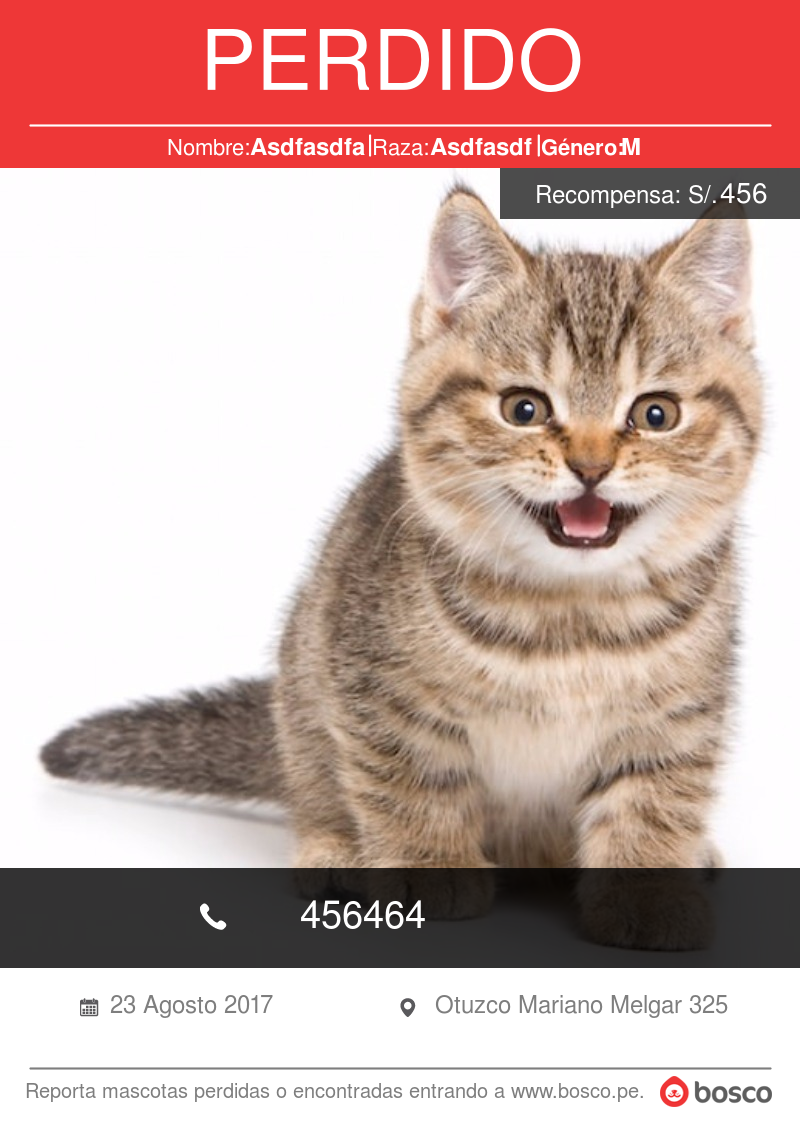
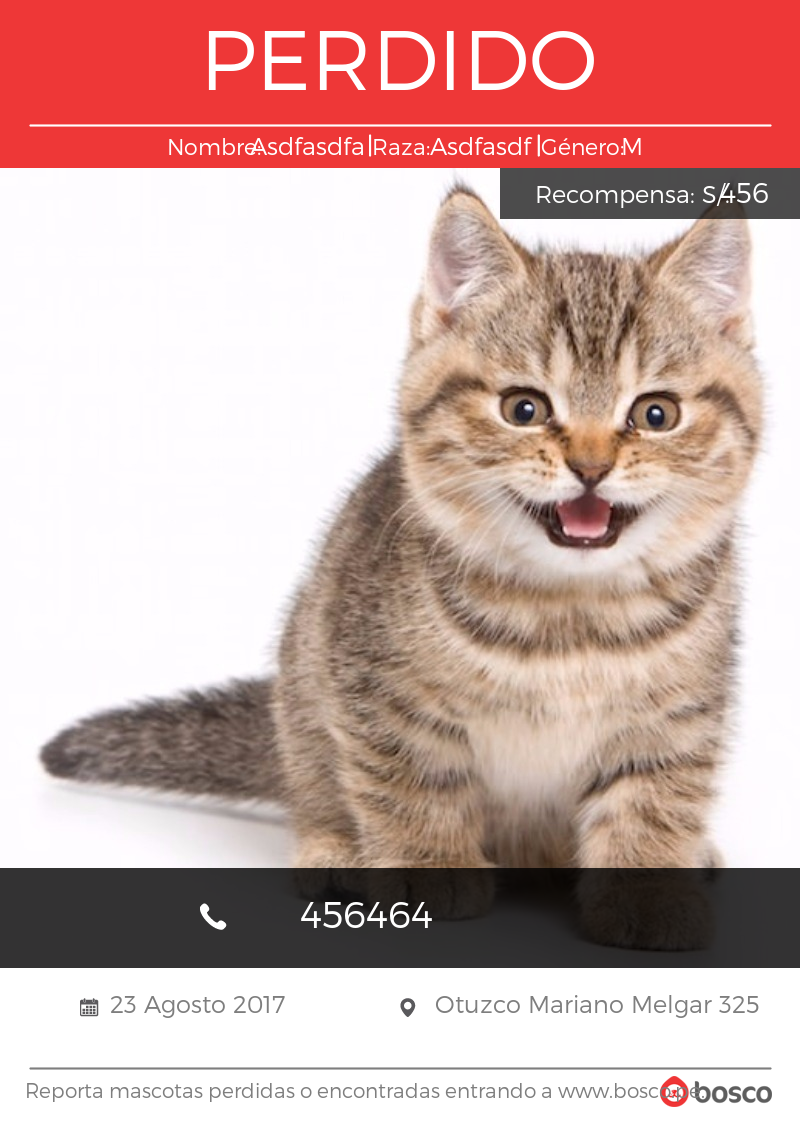
hotfix tipografia

diff --git a/app/Http/Controllers/ReportsController.php b/app/Http/Controllers/ReportsController.php
@@ -158,6 +158,7 @@ class ReportsController extends Controller {
             $headerLienzo->newImage(800, 168, new ImagickPixel('rgb(238, 55, 55)'));
             $headerLienzo->setImageFormat("jpg");
             $textoPerdido = new \ImagickDraw();
+            $textoPerdido->setFont("fonts/montserrat/montserrat-light.ttf");
             $textoPerdido->setFontSize(84);
             $textoPerdido->setStrokeWidth(3);
             $textoPerdido->setFillColor(new ImagickPixel('white'));
@@ -172,19 +173,21 @@ class ReportsController extends Controller {
             $factorCorreccionTextoIzquierda = 362; 
             $largoTextoIzquierda = strlen($name);
             $textoNombre = new \ImagickDraw();
-            $textoNombre->setFontSize(22);
+            $textoNombre->setFontSize(20);
             $textoNombre->setStrokeWidth(2);
             $textoNombre->setFillColor(new ImagickPixel('white'));        
             //15
+            $textoNombre->setFont("fonts/montserrat/montserrat-light.ttf");
             $textoNombre->annotation($factorCorreccionTituloIzquierda-($largoTextoIzquierda*$metricaCaracter) - $valorCorreccion, 155, 'Nombre:');                                                                   
             if ($status == "lost")
             $headerLienzo->drawImage($textoNombre);
             $valorNombre = new \ImagickDraw();
             $valorNombre->setFontWeight(551);
-            $valorNombre->setFontSize(24);
+            $valorNombre->setFontSize(22);
             $valorNombre->setStrokeWidth(2);
             $valorNombre->setFillColor(new ImagickPixel('white'));
             //98
+            $valorNombre->setFont("fonts/montserrat/montserrat-light.ttf");
             $valorNombre->annotation($factorCorreccionTextoIzquierda-($largoTextoIzquierda*$metricaCaracter) - $valorCorreccion, 155, ucfirst($name));                                                                   
             if ($status == "lost")
             $headerLienzo->drawImage($valorNombre);  
@@ -192,22 +195,24 @@ class ReportsController extends Controller {
             $draw->setStrokeColor(new ImagickPixel('white'));
             $draw->setFillColor(new ImagickPixel('white'));
             $draw->setStrokeWidth(2);
-            $draw->setFontSize(72);
+            $draw->setFontSize(70);
             if ($status == "lost")
             $draw->line(363  - $valorCorreccion, 135, 363  - $valorCorreccion, 155);
             $headerLienzo->drawImage($draw);
             $textoRaza = new \ImagickDraw();
-            $textoRaza->setFontSize(22);
+            $textoRaza->setFontSize(20);
             $textoRaza->setStrokeWidth(2);
             $textoRaza->setFillColor(new ImagickPixel('white'));
+            $textoRaza->setFont("fonts/montserrat/montserrat-light.ttf");
             $textoRaza->annotation(365 - $valorCorreccion, 155, 'Raza:');  
             if ($status == "lost")
             $headerLienzo->drawImage($textoRaza);    
             $valorRaza = new \ImagickDraw();
-            $valorRaza->setFontSize(24);
+            $valorRaza->setFontSize(22);
             $valorRaza->setStrokeWidth(2);
             $valorRaza->setFillColor(new ImagickPixel('white'));
             $valorRaza->setFontWeight(551);
+            $valorRaza->setFont("fonts/montserrat/montserrat-light.ttf");
             $valorRaza->annotation(423 - $valorCorreccion, 155, ucfirst($race));  
             if ($status == "lost")
             $headerLienzo->drawImage($valorRaza);   
@@ -217,20 +222,22 @@ class ReportsController extends Controller {
             $largoTextoCentro = strlen($race);
             $largoTextoCentroCorreccion = 20 - $largoTextoCentro; 
             $textoGenero = new \ImagickDraw();
-            $textoGenero->setFontSize(22);
+            $textoGenero->setFontSize(20);
             $textoGenero->setStrokeWidth(2);
             $textoGenero->setFillColor(new ImagickPixel('white'));
             //693
+            $textoGenero->setFont("fonts/montserrat/montserrat-light.ttf");
             $textoGenero->annotation($factorCorreccionTituloDerecha - ($largoTextoCentroCorreccion * $metricaCaracter) - $valorCorreccion, 155, 'Género:');                                                                               
             if ($status == "lost")
             $headerLienzo->drawImage($textoGenero);  
             $valorGenero = new \ImagickDraw();
-            $valorGenero->setFontSize(24);
+            $valorGenero->setFontSize(22);
             $valorGenero->setStrokeWidth(2);
             $valorGenero->setFillColor(new ImagickPixel('white'));
             $valorGenero->setFontWeight(551);
             //773
             $positionTextoDerecha = $factorCorreccionTextoDerecha - ($largoTextoCentroCorreccion * $metricaCaracter);
+            $valorGenero->setFont("fonts/montserrat/montserrat-light.ttf");
             if (strlen($gender) == 5) {
                 $valorGenero->annotation($positionTextoDerecha - $valorCorreccion, 155, "M");                                                                               
             } else {
@@ -242,7 +249,7 @@ class ReportsController extends Controller {
             $draw->setStrokeColor(new ImagickPixel('white'));
             $draw->setFillColor(new ImagickPixel('white'));
             $draw->setStrokeWidth(2);
-            $draw->setFontSize(72);
+            $draw->setFontSize(70);
             //690
             $positionLineaDerecha = $factorCorreccionLineaDerecha - ($largoTextoCentroCorreccion * $metricaCaracter);
             if ($status == "lost")
@@ -252,7 +259,7 @@ class ReportsController extends Controller {
             $draw->setStrokeColor(new ImagickPixel('white'));
             $draw->setFillColor(new ImagickPixel('white'));
             $draw->setStrokeWidth(2);
-            $draw->setFontSize(72);
+            $draw->setFontSize(70);
             $draw->line(30, 125, 770, 125);
             $headerLienzo->drawImage($draw);
             $footerLienzo = new Imagick();
@@ -279,29 +286,32 @@ class ReportsController extends Controller {
             $mes = $meses[$mesnum];
 
             $valorFecha = new \ImagickDraw();
-            $valorFecha->setFontSize(24);
+            $valorFecha->setFontSize(22);
             $valorFecha->setFillColor(new ImagickPixel('gray'));
+            $valorFecha->setFont("fonts/montserrat/montserrat-light.ttf");
             $valorFecha->annotation(110, 45, ucfirst($dia . ' ' . $mes . ' ' . $anho));  
             $footerLienzo->drawImage($valorFecha);
             $locationImg = new Imagick("img/location.png");
             $footerLienzo->compositeimage($locationImg->getimage(), Imagick::COMPOSITE_DEFAULT, 400, 30);
             $valorDireccion = new \ImagickDraw();
-            $valorDireccion->setFontSize(24);
+            $valorDireccion->setFontSize(18);
             $valorDireccion->setFillColor(new ImagickPixel('gray'));
+            $valorDireccion->setFont("fonts/montserrat/montserrat-light.ttf");
             $valorDireccion->annotation(435, 45, ucfirst($address));  
             $footerLienzo->drawImage($valorDireccion);
             $logoImg = new Imagick("img/logo_2.png");            
             $footerLienzo->compositeimage($logoImg->getimage(), Imagick::COMPOSITE_DEFAULT, 660, 108);
             $reportaTexto = new \ImagickDraw();
-            $reportaTexto->setFontSize(20);
+            $reportaTexto->setFontSize(18);
             $reportaTexto->setFillColor(new ImagickPixel('gray'));
+            $reportaTexto->setFont("fonts/montserrat/montserrat-light.ttf");
             $reportaTexto->annotation(25, 130, "Reporta mascotas perdidas o encontradas entrando a www.bosco.pe.");  
             $footerLienzo->drawImage($reportaTexto);
             $draw2 = new \ImagickDraw();
             $draw2->setStrokeColor(new ImagickPixel('gray'));
             $draw2->setFillColor(new ImagickPixel('gray'));
             $draw2->setStrokeWidth(2);
-            $draw2->setFontSize(72);
+            $draw2->setFontSize(70);
             $draw2->line(30, 100, 770, 100);
             $footerLienzo->drawImage($draw2);
             /*$rewardLienzo = new Imagick("recompensa_capa.png");
@@ -328,20 +338,23 @@ class ReportsController extends Controller {
             $phoneImg = new Imagick("img/phone.png");            
             $im->compositeimage($phoneImg->getimage(), Imagick::COMPOSITE_DEFAULT, 200, 735);
             $phoneTexto = new \ImagickDraw();
-            $phoneTexto->setFontSize(38);
+            $phoneTexto->setFontSize(36);
             $phoneTexto->setFillColor(new ImagickPixel('white'));
+            $phoneTexto->setFont("fonts/montserrat/montserrat-light.ttf");
             $phoneTexto->annotation(300, 760, $contact_phone);  
             $im->drawImage($phoneTexto);    
             $im->setImageFormat("png");
             $rewardTexto = new \ImagickDraw();
-            $rewardTexto->setFontSize(24);
+            $rewardTexto->setFontSize(22);
             $rewardTexto->setFillColor(new ImagickPixel('white'));
+            $rewardTexto->setFont("fonts/montserrat/montserrat-light.ttf");
             $rewardTexto->annotation(535, 35, "Recompensa: S/. ");  
             if (strlen($reward) > 0) 
             $im->drawImage($rewardTexto);    
             $rewardTextoValor = new \ImagickDraw();
-            $rewardTextoValor->setFontSize(28);
+            $rewardTextoValor->setFontSize(26);
             $rewardTextoValor->setFillColor(new ImagickPixel('white'));
+            $rewardTextoValor->setFont("fonts/montserrat/montserrat-light.ttf");
             $rewardTextoValor->annotation(720, 35, $reward);  
             if (strlen($reward) > 0) 
             $im->drawImage($rewardTextoValor);    
@@ -443,47 +456,52 @@ class ReportsController extends Controller {
             $headerLienzo->newImage(800, 168, new ImagickPixel('rgb(238, 55, 55)'));
             $headerLienzo->setImageFormat("jpg");
             $textoPerdido = new \ImagickDraw();
-            $textoPerdido->setFontSize(84);
+            $textoPerdido->setFontSize(82);
             $textoPerdido->setStrokeWidth(3);
             $textoPerdido->setFillColor(new ImagickPixel('white'));
+            $textoPerdido->setFont("fonts/montserrat/montserrat-light.ttf");
             $textoPerdido->annotation(200, 90, 'PERDIDO');
             $headerLienzo->drawImage($textoPerdido);
             $factorCorreccionTituloIzquierda = 279; 
             $factorCorreccionTextoIzquierda = 362; 
             $largoTextoIzquierda = strlen($name);
             $textoNombre = new \ImagickDraw();
-            $textoNombre->setFontSize(22);
+            $textoNombre->setFontSize(20);
             $textoNombre->setStrokeWidth(2);
             $textoNombre->setFillColor(new ImagickPixel('white'));
             //15
+            $textoNombre->setFont("fonts/montserrat/montserrat-light.ttf");
             $textoNombre->annotation($factorCorreccionTituloIzquierda-($largoTextoIzquierda*$metricaCaracter) - $valorCorreccion, 155, 'Nombre:');                                                                   
             $headerLienzo->drawImage($textoNombre);
             $valorNombre = new \ImagickDraw();
-            $valorNombre->setFontSize(24);
+            $valorNombre->setFontSize(22);
             $valorNombre->setStrokeWidth(2);
             $valorNombre->setFillColor(new ImagickPixel('white'));
             $valorNombre->setFontWeight(551);
             //98
+            $valorNombre->setFont("fonts/montserrat/montserrat-light.ttf");
             $valorNombre->annotation($factorCorreccionTextoIzquierda-($largoTextoIzquierda*$metricaCaracter) - $valorCorreccion, 155, ucfirst($name));                                                                   
             $headerLienzo->drawImage($valorNombre);  
             $draw = new \ImagickDraw();
             $draw->setStrokeColor(new ImagickPixel('white'));
             $draw->setFillColor(new ImagickPixel('white'));
             $draw->setStrokeWidth(2);
-            $draw->setFontSize(72);
+            $draw->setFontSize(70);
             $draw->line(363  - $valorCorreccion, 135, 363  - $valorCorreccion, 155);
             $headerLienzo->drawImage($draw);
             $textoRaza = new \ImagickDraw();
-            $textoRaza->setFontSize(22);
+            $textoRaza->setFontSize(20);
             $textoRaza->setStrokeWidth(2);
             $textoRaza->setFillColor(new ImagickPixel('white'));
+            $textoRaza->setFont("fonts/montserrat/montserrat-light.ttf");
             $textoRaza->annotation(365 - $valorCorreccion, 155, 'Raza:');  
             $headerLienzo->drawImage($textoRaza);    
             $valorRaza = new \ImagickDraw();
-            $valorRaza->setFontSize(24);
+            $valorRaza->setFontSize(22);
             $valorRaza->setStrokeWidth(2);
             $valorRaza->setFontWeight(551);
             $valorRaza->setFillColor(new ImagickPixel('white'));
+            $valorRaza->setFont("fonts/montserrat/montserrat-light.ttf");
             $valorRaza->annotation(423 - $valorCorreccion, 155, ucfirst($race));  
             $headerLienzo->drawImage($valorRaza);   
             $factorCorreccionTextoDerecha = 773;
@@ -492,20 +510,22 @@ class ReportsController extends Controller {
             $largoTextoCentro = strlen($race);
             $largoTextoCentroCorreccion = 20 - $largoTextoCentro; 
             $textoGenero = new \ImagickDraw();
-            $textoGenero->setFontSize(22);
+            $textoGenero->setFontSize(20);
             $textoGenero->setStrokeWidth(2);
             $textoGenero->setFillColor(new ImagickPixel('white'));
             $textoGenero->setFontWeight(551);
             //693
+            $textoGenero->setFont("fonts/montserrat/montserrat-light.ttf");
             $textoGenero->annotation($factorCorreccionTituloDerecha - ($largoTextoCentroCorreccion * $metricaCaracter) - $valorCorreccion, 155, 'Género:');                                                                               
             $headerLienzo->drawImage($textoGenero);  
             $valorGenero = new \ImagickDraw();
-            $valorGenero->setFontSize(24);
+            $valorGenero->setFontSize(22);
             $valorGenero->setStrokeWidth(2);
             $valorGenero->setFontWeight(551);
             $valorGenero->setFillColor(new ImagickPixel('white'));
             //773
             $positionTextoDerecha = $factorCorreccionTextoDerecha - ($largoTextoCentroCorreccion * $metricaCaracter);
+            $valorGenero->setFont("fonts/montserrat/montserrat-light.ttf");
             if (strlen($gender) == 5) {
                 $valorGenero->annotation($positionTextoDerecha - $valorCorreccion, 155, "M");                                                                               
             } else {
@@ -516,7 +536,7 @@ class ReportsController extends Controller {
             $draw->setStrokeColor(new ImagickPixel('white'));
             $draw->setFillColor(new ImagickPixel('white'));
             $draw->setStrokeWidth(2);
-            $draw->setFontSize(72);
+            $draw->setFontSize(70);
             //690
             $positionLineaDerecha = $factorCorreccionLineaDerecha - ($largoTextoCentroCorreccion * $metricaCaracter);
             $draw->line($positionLineaDerecha - $valorCorreccion, 135, $positionLineaDerecha - $valorCorreccion, 155);
@@ -525,7 +545,7 @@ class ReportsController extends Controller {
             $draw->setStrokeColor(new ImagickPixel('white'));
             $draw->setFillColor(new ImagickPixel('white'));
             $draw->setStrokeWidth(2);
-            $draw->setFontSize(72);
+            $draw->setFontSize(70);
             $draw->line(30, 125, 770, 125);
             $headerLienzo->drawImage($draw);
             $footerLienzo = new Imagick();
@@ -552,29 +572,32 @@ class ReportsController extends Controller {
             $mes = $meses[$mesnum];
 
             $valorFecha = new \ImagickDraw();
-            $valorFecha->setFontSize(24);
+            $valorFecha->setFontSize(22);
             $valorFecha->setFillColor(new ImagickPixel('gray'));
+            $valorFecha->setFont("fonts/montserrat/montserrat-light.ttf");
             $valorFecha->annotation(110, 45, ucfirst($dia . ' ' . $mes . ' ' . $anho));  
             $footerLienzo->drawImage($valorFecha);
             $locationImg = new Imagick("img/location.png");
             $footerLienzo->compositeimage($locationImg->getimage(), Imagick::COMPOSITE_DEFAULT, 400, 30);
             $valorDireccion = new \ImagickDraw();
-            $valorDireccion->setFontSize(24);
+            $valorDireccion->setFontSize(18);
             $valorDireccion->setFillColor(new ImagickPixel('gray'));
+            $valorDireccion->setFont("fonts/montserrat/montserrat-light.ttf");
             $valorDireccion->annotation(435, 45, ucfirst($address));  
             $footerLienzo->drawImage($valorDireccion);
             $logoImg = new Imagick("img/logo_2.png");            
             $footerLienzo->compositeimage($logoImg->getimage(), Imagick::COMPOSITE_DEFAULT, 660, 108);
             $reportaTexto = new \ImagickDraw();
-            $reportaTexto->setFontSize(20);
+            $reportaTexto->setFontSize(18);
             $reportaTexto->setFillColor(new ImagickPixel('gray'));
+            $reportaTexto->setFont("fonts/montserrat/montserrat-light.ttf");
             $reportaTexto->annotation(25, 130, "Reporta mascotas perdidas o encontradas entrando a www.bosco.pe.");  
             $footerLienzo->drawImage($reportaTexto);
             $draw2 = new \ImagickDraw();
             $draw2->setStrokeColor(new ImagickPixel('gray'));
             $draw2->setFillColor(new ImagickPixel('gray'));
             $draw2->setStrokeWidth(2);
-            $draw2->setFontSize(72);
+            $draw2->setFontSize(70);
             $draw2->line(30, 100, 770, 100);
             $footerLienzo->drawImage($draw2);
             /*$rewardLienzo = new Imagick("recompensa_capa.png");
@@ -600,19 +623,22 @@ class ReportsController extends Controller {
             $phoneImg = new Imagick("img/phone.png");            
             $im->compositeimage($phoneImg->getimage(), Imagick::COMPOSITE_DEFAULT, 200, 735);
             $phoneTexto = new \ImagickDraw();
-            $phoneTexto->setFontSize(38);
+            $phoneTexto->setFontSize(36);
             $phoneTexto->setFillColor(new ImagickPixel('white'));
+            $phoneTexto->setFont("fonts/montserrat/montserrat-light.ttf");
             $phoneTexto->annotation(300, 760, $contact_phone);  
             $im->drawImage($phoneTexto);    
             $im->setImageFormat("png");
             $rewardTexto = new \ImagickDraw();
-            $rewardTexto->setFontSize(24);
+            $rewardTexto->setFontSize(22);
             $rewardTexto->setFillColor(new ImagickPixel('white'));
+            $rewardTexto->setFont("fonts/montserrat/montserrat-light.ttf");
             $rewardTexto->annotation(535, 35, "Recompensa: S/. ");  
             $im->drawImage($rewardTexto);    
             $rewardTextoValor = new \ImagickDraw();
-            $rewardTextoValor->setFontSize(28);
+            $rewardTextoValor->setFontSize(26);
             $rewardTextoValor->setFillColor(new ImagickPixel('white'));
+            $rewardTextoValor->setFont("fonts/montserrat/montserrat-light.ttf");
             $rewardTextoValor->annotation(720, 35, $reward);  
             $im->drawImage($rewardTextoValor);    
             $lienzo->compositeimage($headerLienzo->getimage(), Imagick::COMPOSITE_COPY, 0, 0);
